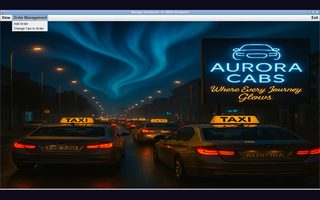
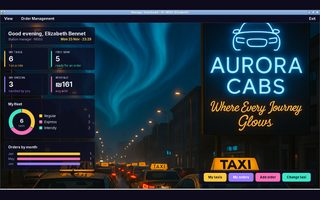
AURORA Taxi: redesigned app with dashboards and ride booking, new screenshots
Claude-Session: https://claude.ai/code/session_01S6WEL3T7HL9dYA6MsrJuDx

diff --git a/he/index.html b/he/index.html
@@ -291,28 +291,29 @@
 <div class="case-media">
 <div class="frame-win dark">
 <div class="win-bar"><i></i><i></i><i></i><span>AURORA Cabs · אפליקציית דסקטופ</span></div>
-<button aria-label="הגדלת צילום המסך" class="shot" type="button"><img alt="לוח הבקרה של המנהל הראשי ב-AURORA Cabs עם תפריט התצוגה פתוח" height="750" loading="lazy" src="../assets/shots/taxi-manager.jpg" width="1200"/></button>
+<button aria-label="הגדלת צילום המסך" class="shot" type="button"><img alt="לוח הבקרה של המנהל הראשי ב-AURORA Cabs עם נתונים חיים על הצי, ההזמנות וההכנסות" height="750" loading="lazy" src="../assets/shots/taxi-dashboard.jpg" width="1200"/></button>
 </div>
 <div aria-label="צילומי מסך נוספים" class="thumbs">
-<button class="on" data-src="../assets/shots/taxi-manager.jpg" type="button"><img alt="לוח הבקרה של המנהל הראשי ב-AURORA Cabs עם תפריט התצוגה פתוח" height="200" loading="lazy" src="../assets/shots/taxi-manager-t.jpg" width="320"/></button>
-<button data-src="../assets/shots/taxi-fleet.jpg" type="button"><img alt="טבלת הצי עם כל מונית, הסוג, הסטטוס והתמחור" height="200" loading="lazy" src="../assets/shots/taxi-fleet-t.jpg" width="320"/></button>
-<button data-src="../assets/shots/taxi-stations.jpg" type="button"><img alt="התחנות וכמה מוניות יש בכל אחת" height="200" loading="lazy" src="../assets/shots/taxi-stations-t.jpg" width="320"/></button>
-<button data-src="../assets/shots/taxi-station-manager.jpg" type="button"><img alt="לוח הבקרה של מנהל תחנה עם ניהול הזמנות" height="200" loading="lazy" src="../assets/shots/taxi-station-manager-t.jpg" width="320"/></button>
-<button data-src="../assets/shots/taxi-subscriber.jpg" type="button"><img alt="לוח הבקרה של המנוי" height="200" loading="lazy" src="../assets/shots/taxi-subscriber-t.jpg" width="320"/></button>
-<button data-src="../assets/shots/taxi-welcome.jpg" type="button"><img alt="מסך הפתיחה וההתחברות של AURORA Cabs" height="200" loading="lazy" src="../assets/shots/taxi-welcome-t.jpg" width="320"/></button>
+<button class="on" data-src="../assets/shots/taxi-dashboard.jpg" type="button"><img alt="לוח הבקרה של המנהל הראשי ב-AURORA Cabs עם נתונים חיים על הצי, ההזמנות וההכנסות" height="200" loading="lazy" src="../assets/shots/taxi-dashboard-t.jpg" width="320"/></button>
+<button data-src="../assets/shots/taxi-book.jpg" type="button"><img alt="הזמנת נסיעה: בוחרים תחנה וסוג מונית ורואים את המחיר לפני האישור" height="200" loading="lazy" src="../assets/shots/taxi-book-t.jpg" width="320"/></button>
+<button data-src="../assets/shots/taxi-subscriber.jpg" type="button"><img alt="לוח הבקרה של המנוי עם הנסיעות, ההוצאות לפי חודש והנסיעה האחרונה" height="200" loading="lazy" src="../assets/shots/taxi-subscriber-t.jpg" width="320"/></button>
+<button data-src="../assets/shots/taxi-station-manager.jpg" type="button"><img alt="לוח הבקרה של מנהל תחנה עם הצי וההזמנות שלו" height="200" loading="lazy" src="../assets/shots/taxi-station-manager-t.jpg" width="320"/></button>
+<button data-src="../assets/shots/taxi-fleet.jpg" type="button"><img alt="טבלת הצי מסוננת למוניות אקספרס וממוינת, עם סטטוס וסוג בצבעים" height="200" loading="lazy" src="../assets/shots/taxi-fleet-t.jpg" width="320"/></button>
+<button data-src="../assets/shots/taxi-orders.jpg" type="button"><img alt="כל ההזמנות, עם חיפוש וייצוא ל-CSV" height="200" loading="lazy" src="../assets/shots/taxi-orders-t.jpg" width="320"/></button>
+<button data-src="../assets/shots/taxi-welcome.jpg" type="button"><img alt="מסך הפתיחה של AURORA Cabs ומסך הכניסה החדש" height="200" loading="lazy" src="../assets/shots/taxi-welcome-t.jpg" width="320"/></button>
 <button data-src="../assets/diagrams/taxi-overview.svg" type="button"><img alt="תרשים: מה מערכת AURORA Taxi מנהלת" height="200" loading="lazy" src="../assets/diagrams/taxi-overview.svg" width="320"/></button>
 </div>
 </div>
 <div class="case-body">
 <p class="label award" data-edit="">★ הפרויקט הטוב ביותר · 2025</p>
 <h3 data-edit="">AURORA Taxi</h3>
-<p data-edit="">AURORA Cabs, מערכת ניהול לחברת מוניות, שנבנתה בקורס מבוא לתכנות מונחה עצמים.</p>
+<p data-edit="">AURORA Cabs, מערכת ניהול לחברת מוניות, שבניתי בקורס מבוא לתכנות מונחה עצמים. אחר כך נתתי לה ממשק חדש ותכונות חדשות.</p>
 <ul class="hl">
-<li data-edit="">חלונות נפרדים למנהל הראשי, למנהלי התחנות ולמנויים</li>
-<li data-edit="">מוניות רגילות, אקספרס ובין-עירוניות, שנבנו בעזרת ירושה ופולימורפיזם</li>
-<li data-edit="">הזמנות, תחנות והיסטוריית הנסיעות של כל מנוי</li>
+<li data-edit="">לוחות בקרה נפרדים למנהל הראשי, למנהלי התחנות ולמנויים, עם נתונים חיים וגרפים</li>
+<li data-edit="">מנויים מזמינים נסיעות בעצמם ורואים קודם את המחיר; מוניות רגילות, אקספרס ובין-עירוניות מתומחרות אחרת בעזרת ירושה ופולימורפיזם</li>
+<li data-edit="">בכל טבלה אפשר לחפש, למיין ולייצא ל-CSV, ויש קיצורי מקלדת בכל המערכת</li>
 </ul>
-<ul class="tags"><li>Java</li><li>Swing</li><li>תכנות מונחה עצמים</li></ul>
+<ul class="tags"><li>Java</li><li>Swing</li><li>תכנות מונחה עצמים</li><li>Java 2D</li></ul>
 <p class="private-note" data-edit="">הקוד נמצא במאגר פרטי וזמין לפי בקשה.</p>
 </div>
 </article>

diff --git a/index.html b/index.html
@@ -302,28 +302,29 @@
             <div class="case-media">
               <div class="frame-win dark">
                 <div class="win-bar"><i></i><i></i><i></i><span>AURORA Cabs · desktop app</span></div>
-                <button class="shot" type="button" aria-label="Enlarge screenshot"><img src="assets/shots/taxi-manager.jpg" alt="AURORA Cabs main manager dashboard with the View menu open" width="1200" height="750" loading="lazy"></button>
+                <button class="shot" type="button" aria-label="Enlarge screenshot"><img src="assets/shots/taxi-dashboard.jpg" alt="AURORA Cabs main manager dashboard with live fleet, order and revenue statistics" width="1200" height="750" loading="lazy"></button>
               </div>
               <div class="thumbs" aria-label="More screenshots">
-                <button type="button" class="on" data-src="assets/shots/taxi-manager.jpg"><img src="assets/shots/taxi-manager-t.jpg" alt="AURORA Cabs main manager dashboard with the View menu open" width="320" height="200" loading="lazy"></button>
-                <button type="button" data-src="assets/shots/taxi-fleet.jpg"><img src="assets/shots/taxi-fleet-t.jpg" alt="Fleet table with every taxi, its type, status and pricing" width="320" height="200" loading="lazy"></button>
-                <button type="button" data-src="assets/shots/taxi-stations.jpg"><img src="assets/shots/taxi-stations-t.jpg" alt="Stations and how many taxis each one has" width="320" height="200" loading="lazy"></button>
-                <button type="button" data-src="assets/shots/taxi-station-manager.jpg"><img src="assets/shots/taxi-station-manager-t.jpg" alt="Station manager dashboard with order management" width="320" height="200" loading="lazy"></button>
-                <button type="button" data-src="assets/shots/taxi-subscriber.jpg"><img src="assets/shots/taxi-subscriber-t.jpg" alt="Subscriber dashboard" width="320" height="200" loading="lazy"></button>
-                <button type="button" data-src="assets/shots/taxi-welcome.jpg"><img src="assets/shots/taxi-welcome-t.jpg" alt="AURORA Cabs splash screen and login" width="320" height="200" loading="lazy"></button>
+                <button type="button" class="on" data-src="assets/shots/taxi-dashboard.jpg"><img src="assets/shots/taxi-dashboard-t.jpg" alt="AURORA Cabs main manager dashboard with live fleet, order and revenue statistics" width="320" height="200" loading="lazy"></button>
+                <button type="button" data-src="assets/shots/taxi-book.jpg"><img src="assets/shots/taxi-book-t.jpg" alt="Booking a ride: choose a station and kind of taxi and see the fare before confirming" width="320" height="200" loading="lazy"></button>
+                <button type="button" data-src="assets/shots/taxi-subscriber.jpg"><img src="assets/shots/taxi-subscriber-t.jpg" alt="Subscriber dashboard with rides, spending by month and the latest ride" width="320" height="200" loading="lazy"></button>
+                <button type="button" data-src="assets/shots/taxi-station-manager.jpg"><img src="assets/shots/taxi-station-manager-t.jpg" alt="Station manager dashboard with their own fleet and orders" width="320" height="200" loading="lazy"></button>
+                <button type="button" data-src="assets/shots/taxi-fleet.jpg"><img src="assets/shots/taxi-fleet-t.jpg" alt="Fleet table filtered to Express taxis and sorted, with coloured status and type" width="320" height="200" loading="lazy"></button>
+                <button type="button" data-src="assets/shots/taxi-orders.jpg"><img src="assets/shots/taxi-orders-t.jpg" alt="All orders, searchable and exportable to CSV" width="320" height="200" loading="lazy"></button>
+                <button type="button" data-src="assets/shots/taxi-welcome.jpg"><img src="assets/shots/taxi-welcome-t.jpg" alt="AURORA Cabs splash screen and the new sign-in" width="320" height="200" loading="lazy"></button>
                 <button type="button" data-src="assets/diagrams/taxi-overview.svg"><img src="assets/diagrams/taxi-overview.svg" alt="Diagram: what the AURORA Taxi system manages" width="320" height="200" loading="lazy"></button>
               </div>
             </div>
             <div class="case-body">
               <p class="label award" data-edit>★ Best Project · 2025</p>
               <h3 data-edit>AURORA Taxi</h3>
-              <p data-edit>AURORA Cabs, a management system for a taxi company, built for Introduction to Object-Oriented Programming.</p>
+              <p data-edit>AURORA Cabs, a management system for a taxi company, built for Introduction to Object-Oriented Programming. I later gave it a new interface and new features.</p>
               <ul class="hl">
-                <li data-edit>Separate windows for the main manager, station managers and subscribers</li>
-                <li data-edit>Regular, Express and Intercity taxis, built with inheritance and polymorphism</li>
-                <li data-edit>Orders, stations and each subscriber’s ride history</li>
+                <li data-edit>Separate dashboards for the main manager, station managers and subscribers, with live statistics and charts</li>
+                <li data-edit>Subscribers book their own rides and see the fare first; Regular, Express and Intercity taxis price differently through inheritance and polymorphism</li>
+                <li data-edit>Every table can be searched, sorted and exported to CSV, with keyboard shortcuts throughout</li>
               </ul>
-              <ul class="tags"><li>Java</li><li>Swing</li><li>OOP</li></ul>
+              <ul class="tags"><li>Java</li><li>Swing</li><li>OOP</li><li>Java 2D</li></ul>
               <p class="private-note" data-edit>Code is in a private repository, available on request.</p>
             </div>
           </article>

diff --git a/tools/he.py b/tools/he.py
@@ -209,6 +209,17 @@ HE = {
   "Subscriber dashboard": "לוח הבקרה של המנוי",
   "AURORA Cabs splash screen and login": "מסך הפתיחה וההתחברות של AURORA Cabs",
   "Diagram: what the AURORA Taxi system manages": "תרשים: מה מערכת AURORA Taxi מנהלת",
+  "AURORA Cabs, a management system for a taxi company, built for Introduction to Object-Oriented Programming. I later gave it a new interface and new features.": "AURORA Cabs, מערכת ניהול לחברת מוניות, שבניתי בקורס מבוא לתכנות מונחה עצמים. אחר כך נתתי לה ממשק חדש ותכונות חדשות.",
+  "AURORA Cabs main manager dashboard with live fleet, order and revenue statistics": "לוח הבקרה של המנהל הראשי ב-AURORA Cabs עם נתונים חיים על הצי, ההזמנות וההכנסות",
+  "Booking a ride: choose a station and kind of taxi and see the fare before confirming": "הזמנת נסיעה: בוחרים תחנה וסוג מונית ורואים את המחיר לפני האישור",
+  "Subscriber dashboard with rides, spending by month and the latest ride": "לוח הבקרה של המנוי עם הנסיעות, ההוצאות לפי חודש והנסיעה האחרונה",
+  "Station manager dashboard with their own fleet and orders": "לוח הבקרה של מנהל תחנה עם הצי וההזמנות שלו",
+  "Fleet table filtered to Express taxis and sorted, with coloured status and type": "טבלת הצי מסוננת למוניות אקספרס וממוינת, עם סטטוס וסוג בצבעים",
+  "All orders, searchable and exportable to CSV": "כל ההזמנות, עם חיפוש וייצוא ל-CSV",
+  "AURORA Cabs splash screen and the new sign-in": "מסך הפתיחה של AURORA Cabs ומסך הכניסה החדש",
+  "Separate dashboards for the main manager, station managers and subscribers, with live statistics and charts": "לוחות בקרה נפרדים למנהל הראשי, למנהלי התחנות ולמנויים, עם נתונים חיים וגרפים",
+  "Subscribers book their own rides and see the fare first; Regular, Express and Intercity taxis price differently through inheritance and polymorphism": "מנויים מזמינים נסיעות בעצמם ורואים קודם את המחיר; מוניות רגילות, אקספרס ובין-עירוניות מתומחרות אחרת בעזרת ירושה ופולימורפיזם",
+  "Every table can be searched, sorted and exported to CSV, with keyboard shortcuts throughout": "בכל טבלה אפשר לחפש, למיין ולייצא ל-CSV, ויש קיצורי מקלדת בכל המערכת",
   "Interactive product configurator": "מעצב מוצרים אינטראקטיבי", "A complete checkout flow": "תהליך תשלום מלא",
   "Responsive interface that works on phones and desktops": "ממשק רספונסיבי שעובד בטלפון ובמחשב",
   "More on GitHub": "עוד ב-GitHub",
